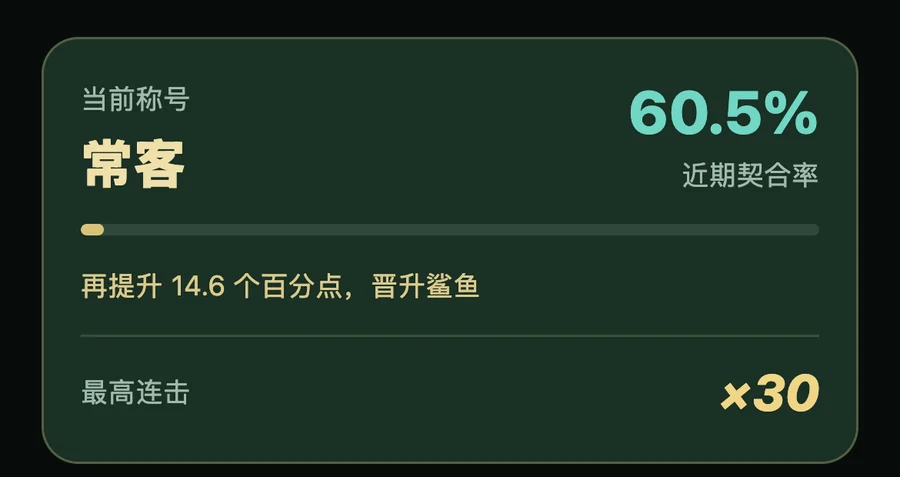
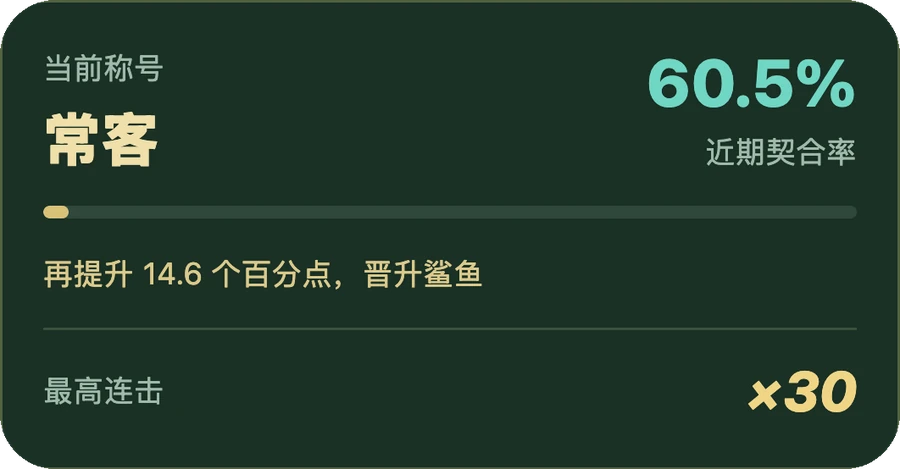
Publish compact carousel and refreshed feature previews

Changed region(s): [[0.0, 0.0, 1.0, 1.0]]

diff --git a/download/index.html b/download/index.html
@@ -5,36 +5,44 @@
 <meta name="description" content="六人桌模拟陪练、模型策略参考与2～6人场景推演。回看关键决策，把一手牌练明白。支持 iPhone 与 Android。">
 <title>德扑 GTO 陪练 · 模拟练习与场景推演</title>
 <style>
-:root{color-scheme:dark;font-family:-apple-system,BlinkMacSystemFont,"Segoe UI",sans-serif;background:#101e19;color:#f1f0e6}*{box-sizing:border-box}body{margin:0}main{max-width:1040px;margin:auto;padding:48px 22px 32px}.brand{color:#d9c384;font-size:16px;font-weight:650;text-decoration:none}h1{font-size:clamp(32px,7vw,48px);letter-spacing:-.03em;line-height:1.15;margin:34px 0 16px}p{font-size:16px;line-height:1.7;color:#b8cbc0}.intro{max-width:560px}.online{display:inline-flex;align-items:center;justify-content:center;min-height:48px;padding:12px 22px;border:1px solid #d9c384;border-radius:10px;color:#e7d9a4;text-decoration:none;font-size:16px;font-weight:650;margin-top:12px}.cards{display:grid;grid-template-columns:1fr 1fr;gap:18px;margin-top:32px}.card{background:#192d24;border:1px solid #354c3e;border-radius:20px;padding:26px;display:flex;flex-direction:column;gap:14px}.tag{font-size:14px;color:#d9c384}h2{font-size:25px;margin:0}.card p{margin:0}.action{display:block;min-height:50px;border-radius:10px;padding:14px 18px;background:#e7d9a4;color:#15271e;text-align:center;text-decoration:none;font-size:16px;font-weight:700;margin-top:auto}.action:focus-visible,summary:focus-visible{outline:3px solid #fff;outline-offset:4px}.muted{font-size:14px;color:#99b1a2}.unavailable{margin-top:auto;padding:14px 18px;background:#2b3e32;border-radius:10px;text-align:center;color:#b8cbc0}.steps{margin:30px 0;border-top:1px solid #354c3e;padding-top:22px}.steps h2{font-size:20px}.steps ol{padding-left:22px;color:#b8cbc0;line-height:1.8;font-size:16px}.steps li{padding:5px 0}details{margin-top:18px}summary{cursor:pointer;color:#d9c384;padding:10px 0;min-height:44px;font-size:16px}code{font-size:13px;overflow-wrap:anywhere;color:#b8cbc0}footer{margin-top:36px;font-size:14px;line-height:1.7;color:#8fa797}footer a{color:inherit}#file-info{white-space:pre-line}a[hidden],[hidden]{display:none!important}@media(max-width:600px){main{padding-top:28px}.cards{grid-template-columns:1fr}.card{padding:22px}.card p[aria-hidden="true"]{display:none}h1{margin-top:28px}}
-.brand{display:inline-flex;align-items:center;gap:12px}.brand img{width:48px;height:48px;border-radius:12px}.hero{display:grid;grid-template-columns:1.3fr 1fr;align-items:center;gap:20px;padding-top:24px}.hero h1{margin-top:12px}.mascot{width:100%;height:auto;object-fit:contain;max-width:310px;justify-self:end;filter:drop-shadow(0 20px 30px #0005)}.eyebrow{color:#d9c384;font-size:14px;letter-spacing:.12em}.platform{display:flex;align-items:center;gap:12px}.platform img{width:40px;height:40px;border-radius:10px}@media(max-width:600px){.hero{grid-template-columns:1fr 120px;gap:6px;padding-top:22px}.hero h1{font-size:clamp(26px,7vw,32px)}.hero .intro{grid-column:1/-1}.mascot{align-self:center;max-width:150px}.hero-copy{display:contents}.hero-copy .eyebrow{grid-column:1/-1}.hero-copy h1{grid-column:1;grid-row:2}.hero .mascot{grid-column:2;grid-row:2}.hero .online{justify-self:start;grid-column:1/-1}.cards{margin-top:26px}}
-.platform-qr{margin:0;text-align:center}.platform-qr img{display:block;width:144px;height:144px;margin:0 auto;background:#fff;border-radius:6px}.platform-qr figcaption{margin-top:8px;font-size:14px;color:#99b1a2}
-@media(min-width:601px){.cards{grid-template-rows:repeat(7,auto)}.card{display:grid;grid-template-rows:subgrid;grid-row:span 7}.card .action,.card .unavailable{margin-top:0}}
-
-.hero-actions{display:flex;flex-wrap:wrap;gap:12px;margin-top:22px}.hero-actions .online{margin:0}.primary{display:inline-flex;align-items:center;justify-content:center;min-height:48px;padding:12px 24px;border-radius:10px;background:#e7d9a4;color:#15271e;font-size:16px;font-weight:700;text-decoration:none}.primary:focus-visible,.feature-link:focus-visible{outline:3px solid #fff;outline-offset:4px}.hero-note{font-size:13px;margin:14px 0 0;color:#99b1a2}.feature-intro{margin:64px 0 28px}.feature-intro h2,.download-heading h2{font-size:clamp(26px,4vw,34px);line-height:1.35;letter-spacing:-.03em}.feature-intro p{margin:10px 0 0}.feature{display:grid;grid-template-columns:1fr 1fr;align-items:center;gap:42px;margin:24px 0;padding:34px;border:1px solid #354c3e;border-radius:24px;background:#15271f}.feature:nth-of-type(even){background:#142521}.feature-copy h3{font-size:clamp(24px,3.5vw,32px);line-height:1.4;margin:12px 0 16px;letter-spacing:-.03em}.feature-copy p{margin:0 0 16px}.feature-link{display:inline-flex;align-items:center;min-height:44px;color:#e7d9a4;text-decoration:none;font-size:15px}.feature-visual{margin:0;min-width:0}.feature-visual img{display:block;width:100%;height:auto;border:1px solid #354c3e;border-radius:16px}.play-visual{max-width:230px;justify-self:center;box-shadow:0 18px 48px #0005;border-radius:18px}.feature-visual figcaption{font-size:12px;color:#99b1a2;line-height:1.6;margin-top:10px}.strategy-detail{margin-bottom:16px}.review-detail{max-width:240px;margin:0 auto;max-height:270px;overflow:hidden;border-radius:16px}.review-detail img{border-radius:16px}.progress{display:grid;grid-template-columns:1fr 1fr;gap:28px;align-items:center;margin-top:24px;padding:28px 0}.progress h3{font-size:24px;margin:0 0 12px}.progress p{margin:0}.progress img{width:100%;height:auto;border-radius:16px}.preview-note{font-size:12px;color:#99b1a2;line-height:1.7;margin:18px 0 0}.download-heading{margin-top:60px;scroll-margin-top:24px}.download-heading p{margin:10px 0 0}.cards{margin-top:24px}.card{min-width:0}.bottom-cta{display:flex;align-items:center;justify-content:space-between;gap:24px;margin-top:32px;padding:28px;border-radius:20px;background:#20382b}.bottom-cta h2{font-size:24px}.bottom-cta p{margin:8px 0 0}.bottom-cta .primary{flex-shrink:0}#android{scroll-margin-top:24px}
-@media(max-width:600px){.hero-actions{grid-column:1/-1;margin-top:18px}.hero-note{grid-column:1/-1}.feature-intro{margin-top:44px}.feature{grid-template-columns:1fr;gap:24px;padding:22px;margin:18px 0}.feature-copy{order:0}.feature-visual{order:1}.play-visual{max-width:230px;justify-self:center}.feature-copy h3{margin-top:8px}.progress{grid-template-columns:1fr;gap:20px}.download-heading{margin-top:40px}.bottom-cta{align-items:flex-start;flex-direction:column;padding:22px}.hero .intro{margin-bottom:0}}
+:root{color-scheme:dark;font-family:-apple-system,BlinkMacSystemFont,"Segoe UI",sans-serif;background:#101e19;color:#f1f0e6}*{box-sizing:border-box}body{margin:0}main{max-width:1040px;margin:auto;padding:28px 22px}.brand{display:inline-flex;align-items:center;gap:10px;color:#d9c384;font-size:16px;font-weight:650;text-decoration:none}.brand img{width:42px;height:42px;border-radius:11px}h1,h2,p,figure{margin:0}p{font-size:16px;line-height:1.7;color:#b8cbc0}a,button{-webkit-tap-highlight-color:transparent}button{font:inherit;cursor:pointer}a:focus-visible,button:focus-visible,summary:focus-visible,.carousel:focus-visible{outline:3px solid #f1f0e6;outline-offset:4px}.eyebrow{color:#d9c384;font-size:13px;letter-spacing:.1em}.carousel{margin-top:22px;min-width:0}.slides{display:flex;overflow-x:auto;scroll-snap-type:x mandatory;scrollbar-width:none;border:1px solid #354c3e;border-radius:24px;background:radial-gradient(ellipse at 85% 70%,#244333 0,transparent 65%),#15271f;overscroll-behavior-x:contain}.slides::-webkit-scrollbar{display:none}.slide{flex:0 0 100%;min-width:0;scroll-snap-align:start;scroll-snap-stop:always;height:350px;display:grid;grid-template-columns:1.15fr 1fr;align-items:center;gap:32px;padding:28px 42px}.slide-copy{min-width:0}.slide h1,.slide h2{font-size:clamp(28px,4.6vw,46px);line-height:1.2;letter-spacing:-.03em;margin:12px 0 16px}.slide p{max-width:440px}.slide-visual{min-width:0;display:flex;align-items:center;justify-content:center;height:290px}.slide-visual img{display:block;max-width:100%;max-height:100%;width:auto;height:auto;object-fit:contain}.mascot{filter:drop-shadow(0 14px 18px #0004)}.phone-shot{border:1px solid #41594c;border-radius:15px;box-shadow:0 12px 24px #0004}.strategy-visual{flex-direction:column;gap:14px}.strategy-visual .strategy-shot{width:auto;max-height:115px;border-radius:12px}.strategy-visual .rank-shot{width:85%;max-height:150px;border-radius:12px}.scenario-shot{border:1px solid #41594c;border-radius:14px}.carousel-controls{display:flex;align-items:center;justify-content:center;gap:16px;margin-top:8px}.arrow{width:44px;height:44px;border:1px solid #354c3e;border-radius:50%;background:transparent;color:#e7d9a4;font-size:22px}.dots{display:flex}.dot{width:36px;height:44px;border:0;background:transparent;position:relative}.dot::after{content:"";position:absolute;width:7px;height:7px;border-radius:8px;background:#526b5b;top:19px;left:14px}.dot[aria-current="true"]::after{width:20px;left:8px;background:#e7d9a4}.slide-status{text-align:center;font-size:12px;color:#99b1a2;line-height:1.5}.download-actions{display:flex;justify-content:center;flex-wrap:wrap;gap:12px;margin:16px 0 10px}.primary,.online{display:inline-flex;align-items:center;justify-content:center;min-height:48px;padding:12px 28px;border-radius:10px;font-size:16px;font-weight:700;text-decoration:none}.primary{background:#e7d9a4;color:#15271e}.online{border:1px solid #d9c384;color:#e7d9a4}.product-summary{text-align:center;font-size:14px;color:#b8cbc0}.download-heading{margin-top:28px;scroll-margin-top:16px}.download-heading h2{font-size:24px}.download-heading p{font-size:14px;margin-top:6px}.cards{display:grid;grid-template-columns:1fr 1fr;gap:18px;margin-top:16px}.card{min-width:0;background:#192d24;border:1px solid #354c3e;border-radius:20px;padding:24px;display:grid;grid-template-rows:subgrid;grid-row:span 5;gap:12px}.tag{font-size:13px;color:#d9c384}.platform{display:flex;align-items:center;gap:12px}.platform img{width:36px;height:36px;border-radius:9px}.platform h2{font-size:24px}.card p{font-size:14px}.platform-qr{text-align:center}.platform-qr img{display:block;width:128px;height:128px;margin:auto;border-radius:6px;background:#fff}.platform-qr figcaption{font-size:13px;color:#99b1a2;margin-top:6px}.action{display:block;min-height:48px;padding:13px 16px;border-radius:10px;background:#e7d9a4;color:#15271e;text-align:center;text-decoration:none;font-size:16px;font-weight:700}.muted{font-size:13px;color:#99b1a2;line-height:1.6}.unavailable{padding:13px 16px;border-radius:10px;background:#2b3e32;text-align:center;color:#b8cbc0}.help{border-top:1px solid #354c3e;margin-top:24px;padding-top:12px}details{margin-top:8px}summary{cursor:pointer;color:#d9c384;padding:10px 0;min-height:44px;font-size:15px}.help ol{padding-left:22px;color:#b8cbc0;line-height:1.8;font-size:14px}.help p{font-size:14px;margin:8px 0}code{font-size:12px;overflow-wrap:anywhere;color:#b8cbc0}footer{font-size:12px;line-height:1.7;color:#8fa797;margin-top:20px}footer a,.help a{color:inherit}#file-info{white-space:pre-line}#android{scroll-margin-top:20px}[hidden]{display:none!important}
+@media(max-width:600px){main{padding:20px 18px}.brand{font-size:14px}.brand img{width:36px;height:36px}.carousel{margin-top:18px}.slides{border-radius:20px}.slide{height:390px;grid-template-columns:1fr;grid-template-rows:165px minmax(0,1fr);gap:14px;padding:22px}.slide h1,.slide h2{font-size:24px;margin:8px 0 10px}.slide h2 br{display:initial}.slide p{font-size:14px;line-height:1.65}.slide-visual{height:100%;min-height:0}.brand-slide{grid-template-columns:1fr 110px;grid-template-rows:1fr;gap:8px}.brand-slide .slide-copy{display:contents}.brand-slide .eyebrow{grid-column:1/-1;align-self:end}.brand-slide h1{grid-column:1;grid-row:2;align-self:center;margin:0;font-size:clamp(24px,6.7vw,32px)}.brand-slide p{grid-column:1/-1;grid-row:3;align-self:start}.brand-slide .slide-visual{grid-column:2;grid-row:2;height:auto}.brand-slide{grid-template-rows:45px 170px 1fr}.strategy-visual{gap:10px}.strategy-visual .strategy-shot{max-height:65px}.strategy-visual .rank-shot{max-height:95px;width:80%}.carousel-controls{gap:10px}.download-actions .primary,.download-actions .online{flex:1;padding:12px 16px}.product-summary{font-size:12px}.download-heading{margin-top:24px}.download-heading h2{font-size:22px}.cards{grid-template-columns:1fr}.card{display:flex;flex-direction:column;gap:12px;padding:20px;grid-row:auto}.card p[aria-hidden="true"]{display:none}.platform-qr img{width:112px;height:112px}.platform h2{font-size:22px}.card .action{margin-top:0}}
+@media(prefers-reduced-motion:reduce){.slides{scroll-behavior:auto}}
 </style>
 </head>
 <body><main>
 <a class="brand" href="../"><img src="./app-icon.webp" alt="德扑 GTO 陪练 App 图标" width="48" height="48">德扑 GTO 陪练</a>
-<section class="hero" aria-label="产品介绍"><div class="hero-copy"><span class="eyebrow">练习 · 推演 · 复盘</span><h1>把一手牌，<br>练明白。</h1>
-<p class="intro">六人桌模拟陪练，行动后对照策略，还原关键一手继续推演。</p>
-<div class="hero-actions"><a class="primary" href="#downloads">下载 App</a><a class="online" href="https://poker.maoniux.com/play/">先在线体验</a></div><p class="hero-note">iPhone / Android · 支持简体中文与 English</p></div><img class="mascot" src="./coach.webp" alt="贸小牛卡通教练竖起拇指" width="310" height="310"></section>
-<section class="feature-intro" aria-labelledby="features-title"><span class="eyebrow">从练一手，到想明白</span><h2 id="features-title">让每一次选择，<br>都有回看的价值。</h2><p>先自己判断，再对照参考，把不确定的局面留给推演。</p></section>
-<section class="feature" aria-labelledby="practice-title"><div class="feature-copy"><span class="eyebrow">01 / 模拟陪练</span><h3 id="practice-title">想练的时候，<br>随时开一桌。</h3><p>不用凑齐牌友。进入六人模拟牌桌，自己决定跟注、加注还是弃牌，在连续对局中练习判断。</p><p class="muted">先做选择，再看参考。把练习变成自己的思考过程。</p><a class="feature-link" href="https://poker.maoniux.com/play/">先在线试一手 →</a></div><figure class="feature-visual play-visual"><img src="./play-preview.webp" alt="六人模拟牌桌，展示自己的手牌与弃牌、跟注和加注操作" width="660" height="1428" loading="lazy" decoding="async"></figure></section>
-<section class="feature" aria-labelledby="strategy-title"><div class="feature-copy"><span class="eyebrow">02 / 策略与复盘</span><h3 id="strategy-title">每次行动，<br>都有策略可对照。</h3><p>行动后查看模型估算的策略频率，对照自己的选择。练完再回看关键决策与打法统计，了解自己的练习习惯。</p><p class="muted">不只记住输赢，也看看当时还有哪些选择。</p></div><figure class="feature-visual"><img class="strategy-detail" src="./strategy-preview.webp" alt="行动后的策略参考，分别展示跟注、加注和弃牌频率" width="1000" height="316" loading="lazy" decoding="async"><div class="review-detail"><img src="./review-preview.webp" alt="练习回顾里的打法画像、入池率与翻前加注率等统计" width="660" height="835" loading="lazy" decoding="async"></div><figcaption>策略参考与练习回顾界面</figcaption></figure></section>
-<section class="feature" aria-labelledby="scenario-title"><div class="feature-copy"><span class="eyebrow">03 / 场景推演</span><h3 id="scenario-title">关键一手，<br>换条路线再推演。</h3><p>设置2～6人牌桌、位置和牌面，从翻前逐步录入行动，轮到自己时查看策略参考。</p><p class="muted">支持撤销和换路线继续推演，把“如果当时这样打”变成可以回看的过程。</p><a class="feature-link" href="#downloads">下载 App，试试场景推演 →</a></div><figure class="feature-visual"><img src="./scenario-preview.webp" alt="场景推演设置，可选择自己的底牌、公共牌和2至6人牌桌" width="860" height="667" loading="lazy" decoding="async"><figcaption>从熟悉的一手牌开始，建立自己的推演场景</figcaption></figure></section>
-<section class="progress" aria-labelledby="progress-title"><div><span class="eyebrow">持续练习，有迹可循</span><h3 id="progress-title">看见自己的练习积累。</h3><p>通过打法统计、近期策略契合率和练习称号，观察自己的决策习惯，给下一次练习一个方向。</p></div><img src="./rank-preview.webp" alt="练习称号与近期策略契合率示例，展示最高连击记录" width="900" height="477" loading="lazy" decoding="async"></section>
-<p class="preview-note">以上为 App 界面演示，牌局、频率与统计为示例数据。策略参考来自有限模型估算，称号与契合率用于练习反馈，不代表真实棋力或盈利保证。</p>
-<section class="download-heading" id="downloads" aria-labelledby="download-title"><span class="eyebrow">准备好，练下一手</span><h2 id="download-title">把一手牌，练明白。</h2><p>选择你的设备。手机直接点击下载，电脑可用手机扫码。</p></section>
-<section class="cards" aria-label="下载方式">
-<article class="card" id="iphone"><span class="tag">iPhone</span><div class="platform"><img src="./app-icon.webp" alt="" width="40" height="40"><h2>iPhone 版</h2></div><p>目前仅支持海外 App Store 下载。</p><figure class="platform-qr"><img src="./iphone-qr.png" alt="扫码前往 App Store 下载 iPhone 版" width="144" height="144"><figcaption>iPhone 扫码下载</figcaption></figure><p class="muted" aria-hidden="true"></p><a class="action" href="https://apps.apple.com/app/id6828434360" rel="noopener noreferrer">前往 App Store</a><span class="muted">安装有问题？可在线体验或邮件咨询。</span></article>
-<article class="card" id="android"><span class="tag">Android</span><div class="platform"><img src="./app-icon.webp" alt="" width="40" height="40"><h2>Android 版</h2></div><p>支持练习、场景推演与记录分享，下载 APK 即可安装。</p><figure class="platform-qr"><img src="./android-qr.png" alt="扫码打开安卓下载页" width="144" height="144"><figcaption>Android 扫码，点击下载</figcaption></figure><p class="muted" id="file-info">正在检查安装包…</p><div><a class="action" id="android-download" hidden download>下载安卓版</a><div class="unavailable" id="android-status" role="status">正在检查安装包…</div></div><span class="muted">微信扫码后，请用浏览器打开下载。</span></article>
+<section class="carousel" aria-label="产品介绍轮播" aria-roledescription="轮播" tabindex="0">
+<div class="slides" id="product-slides">
+<section class="slide brand-slide" role="group" aria-roledescription="幻灯片" aria-label="1 / 4：品牌介绍"><div class="slide-copy"><span class="eyebrow">练习 · 推演 · 复盘</span><h1>把一手牌，<br>练明白。</h1><p>模拟陪练、策略参考与场景推演。</p></div><div class="slide-visual"><img class="mascot" src="./coach.webp" alt="贸小牛卡通教练竖起拇指" width="310" height="310"></div></section>
+<section class="slide" role="group" aria-roledescription="幻灯片" aria-label="2 / 4：模拟陪练"><div class="slide-copy"><span class="eyebrow">01 / 模拟陪练</span><h2>想练的时候，<br>随时开一桌。</h2><p>随时开始六人模拟对局，练习每一次判断。</p></div><div class="slide-visual"><img class="phone-shot" src="./play-preview.webp" alt="六人模拟牌桌及跟注、加注、弃牌操作" width="660" height="1428" decoding="async"></div></section>
+<section class="slide" role="group" aria-roledescription="幻灯片" aria-label="3 / 4：策略与复盘"><div class="slide-copy"><span class="eyebrow">02 / 策略与复盘</span><h2>每次行动，<br>都有策略可对照。</h2><p>对照策略频率，回看关键决策与练习表现。</p></div><div class="slide-visual strategy-visual"><img class="strategy-shot" src="./strategy-preview.webp" alt="行动后的策略频率参考" width="1000" height="292" decoding="async"><img class="rank-shot" src="./rank-preview.webp" alt="近期契合率与练习称号示例" width="900" height="469" decoding="async"></div></section>
+<section class="slide" role="group" aria-roledescription="幻灯片" aria-label="4 / 4：场景推演"><div class="slide-copy"><span class="eyebrow">03 / 场景推演</span><h2>还原实战牌局<br>看看这手应该怎么打</h2><p>支持2～6人，录入牌面与行动，对照策略参考。</p></div><div class="slide-visual"><img class="scenario-shot" src="./scenario-focus.webp" alt="新版推演设置重点：底牌与公共牌、2至6人牌桌、本人位置" width="860" height="637" decoding="async"></div></section>
+</div>
+<div class="carousel-controls"><button class="arrow" type="button" id="previous-slide" aria-label="上一张介绍" aria-controls="product-slides">‹</button><div class="dots" aria-label="选择介绍页"><button class="dot" type="button" aria-label="第1张：品牌介绍" aria-current="true" aria-controls="product-slides"></button><button class="dot" type="button" aria-label="第2张：模拟陪练" aria-current="false" aria-controls="product-slides"></button><button class="dot" type="button" aria-label="第3张：策略与复盘" aria-current="false" aria-controls="product-slides"></button><button class="dot" type="button" aria-label="第4张：场景推演" aria-current="false" aria-controls="product-slides"></button></div><button class="arrow" type="button" id="next-slide" aria-label="下一张介绍" aria-controls="product-slides">›</button></div>
+<p class="slide-status" aria-live="polite" aria-atomic="true">1 / 4 · 品牌介绍</p>
 </section>
-<section class="bottom-cta" aria-label="在线体验"><div><h2>想先看看怎么玩？</h2><p>打开网页，先体验一手模拟练习。</p></div><a class="primary" href="https://poker.maoniux.com/play/">先在线体验</a></section>
-<section class="steps"><h2>安卓安装方法</h2><ol><li>点击“下载安卓版”，下载完成后打开 APK。</li><li>如果系统提示，按提示允许当前浏览器安装应用，再完成安装。</li><li>打开“德扑 GTO 陪练”，即可体验练习、推演和记录图片分享。</li></ol><p class="muted">如果在微信中无法下载或打开 APK，请使用右上角菜单选择在浏览器中打开本页。请保留现有应用，无需卸载旧版。</p><details id="integrity" hidden><summary>查看安装包校验信息</summary><p class="muted">SHA-256</p><code id="sha"></code></details></section>
-<section class="steps" aria-label="安装帮助"><h2>安装帮助</h2><p>安装遇到问题？请联系 <a class="brand" href="mailto:hewen@maoniunet.com?subject=%E5%AE%89%E8%A3%85%E5%B8%AE%E5%8A%A9">hewen@maoniunet.com</a>。</p></section>
-<footer>模拟学习用途，筹码无现金价值。<br><a href="../privacy.html">隐私政策</a> · <a href="../support.html">支持与反馈</a></footer>
+<div class="download-actions"><a class="primary" href="#downloads">下载 App</a><a class="online" href="https://poker.maoniux.com/play/">先在线体验</a></div>
+<section class="cards" id="downloads" aria-label="下载方式">
+<article class="card" id="iphone"><div class="platform"><img src="./app-icon.webp" alt="" width="40" height="40"><h2>iPhone 版</h2></div><p>目前仅支持海外 App Store 下载。</p><figure class="platform-qr"><img src="./iphone-qr.png" alt="扫码前往 App Store 下载 iPhone 版" width="144" height="144"><figcaption>扫码前往 App Store</figcaption></figure><p class="muted" aria-hidden="true"></p><a class="action" href="https://apps.apple.com/app/id6828434360" rel="noopener noreferrer">前往 App Store</a></article>
+<article class="card" id="android"><div class="platform"><img src="./app-icon.webp" alt="" width="40" height="40"><h2>Android 版</h2></div><p>下载 APK 安装。微信内请用浏览器打开。</p><figure class="platform-qr"><img src="./android-qr.png" alt="扫码打开安卓下载页" width="144" height="144"><figcaption>扫码下载安卓版</figcaption></figure><p class="muted" id="file-info">正在检查安装包…</p><div><a class="action" id="android-download" hidden download>下载安卓版</a><div class="unavailable" id="android-status" role="status">正在检查安装包…</div></div></article>
+</section>
+<section class="help" aria-label="安装与帮助"><details><summary>安卓安装方法</summary><ol><li>点击“下载安卓版”，下载完成后打开 APK。</li><li>按系统提示允许当前浏览器安装应用，再完成安装。</li><li>打开“德扑 GTO 陪练”，开始体验。</li></ol><p>更新时无需卸载现有应用。</p></details><details id="integrity" hidden><summary>安装包校验信息</summary><p>SHA-256</p><code id="sha"></code></details><p>安装遇到问题？<a href="mailto:hewen@maoniunet.com?subject=%E5%AE%89%E8%A3%85%E5%B8%AE%E5%8A%A9">联系开发者</a></p></section>
+<footer>界面数据为示例。策略与称号仅供学习参考，模拟积分无现金价值。<br><a href="../privacy.html">隐私政策</a> · <a href="../support.html">支持与反馈</a></footer>
 </main><script>
+(()=>{
+ const rail=document.querySelector('.slides'),slides=[...rail.children],dots=[...document.querySelectorAll('.dot')],status=document.querySelector('.slide-status');
+ const names=['品牌介绍','模拟陪练','策略与复盘','场景推演'];let current=0,frame=0;
+ const update=()=>{current=Math.max(0,Math.min(slides.length-1,Math.round(rail.scrollLeft/rail.clientWidth)));dots.forEach((dot,i)=>dot.setAttribute('aria-current',String(i===current)));slides.forEach((slide,i)=>slide.setAttribute('aria-hidden',String(i!==current)));status.textContent=`${current+1} / ${slides.length} · ${names[current]}`;};
+ const go=index=>{current=(index+slides.length)%slides.length;rail.scrollTo({left:current*rail.clientWidth,behavior:matchMedia('(prefers-reduced-motion: reduce)').matches?'instant':'smooth'});};
+ dots.forEach((dot,i)=>dot.addEventListener('click',()=>go(i)));
+ document.getElementById('previous-slide').addEventListener('click',()=>go(current-1));document.getElementById('next-slide').addEventListener('click',()=>go(current+1));
+ document.querySelector('.carousel').addEventListener('keydown',event=>{if(event.key==='ArrowRight'||event.key==='ArrowLeft'){event.preventDefault();go(current+(event.key==='ArrowRight'?1:-1));}});
+ rail.addEventListener('scroll',()=>{cancelAnimationFrame(frame);frame=requestAnimationFrame(update);},{passive:true});
+ new ResizeObserver(()=>{rail.scrollTo({left:current*rail.clientWidth,behavior:'instant'});update();}).observe(rail);
+ update();
+})();
+
 (async()=>{
  const status=document.getElementById('android-status'),info=document.getElementById('file-info'),link=document.getElementById('android-download');
  try{
@@ -46,7 +54,7 @@
   const release=url.protocol==='https:'&&url.hostname==='github.com'&&url.pathname.includes('/releases/download/');
   if((!local&&!release)||!url.pathname.endsWith('.apk')||url.username||url.password)throw new Error('unavailable');
   link.href=url.href;link.hidden=false;status.hidden=true;
-  info.textContent=`版本 ${file.version} · 构建 ${file.build}\n${(file.bytes/1024/1024).toFixed(1)} MB · Android ${file.minimumAndroid} 及以上 · ${file.architectures}`;
+  info.textContent=`${file.version} · ${(file.bytes/1024/1024).toFixed(1)} MB · Android ${file.minimumAndroid}+`;
   document.getElementById('sha').textContent=file.sha256;document.getElementById('integrity').hidden=false;
  }catch{info.textContent='';status.textContent='安卓版更新中，稍后开放下载';}
 })();
